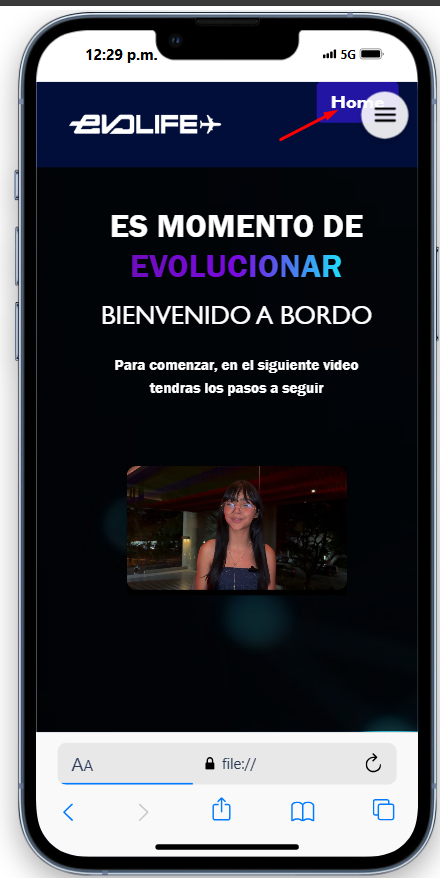
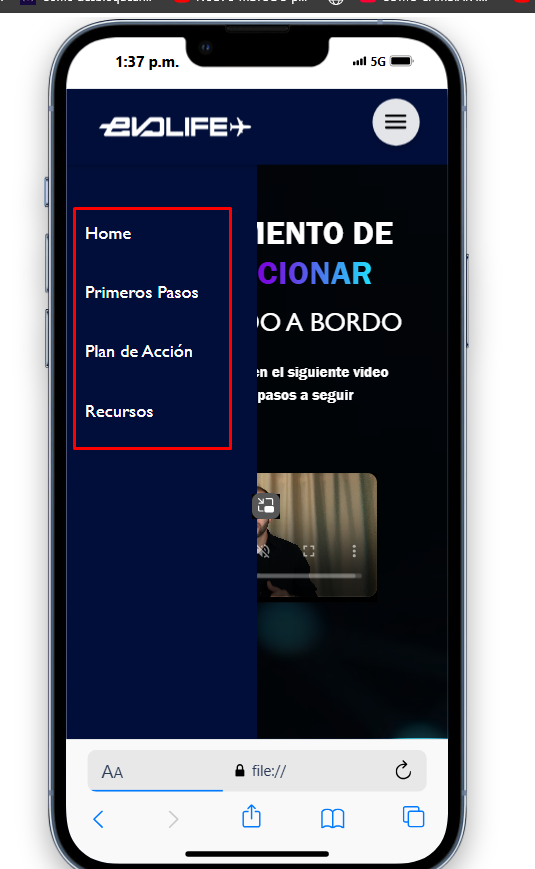
Haciendo cambias en el side bar

diff --git a/script/script.js b/script/script.js
@@ -1,4 +1,5 @@
 
+// Función para alternar el sidebar
 function toggleMobileSidebar() {
     const sidebar = document.getElementById('mobile-sidebar');
     sidebar.classList.toggle('active'); // Alterna la clase 'active'
@@ -16,6 +17,18 @@ document.getElementById('boton-carga').addEventListener('click', function () {
         overlay.classList.remove('activo'); // Oculta la animación (opcional)
         window.location.href = 'home.html'; // Cambia 'home.html' por la URL de tu página de inicio
     }, 5000);
+});
+
+// Resalta el enlace activo en el sidebar
+document.addEventListener('DOMContentLoaded', () => {
+    const links = document.querySelectorAll('.mobile-sidebar-menu a');
+    const currentUrl = window.location.pathname;
+
+    links.forEach(link => {
+        if (link.getAttribute('href') === currentUrl) {
+            link.classList.add('active'); // Agrega la clase 'active' al enlace correspondiente
+        }
+    });
 });
 
 

diff --git a/styles/sidebar.css b/styles/sidebar.css
@@ -1262,6 +1262,18 @@ video {
     font-family:'Gill Sans', 'Gill Sans MT', Calibri, 'Trebuchet MS', sans-serif;
 }
 
+.mobile-sidebar-menu a.active {
+    background-color: #3b1bf094; /* Relleno verde */
+    color: white; /* Color del texto */
+    padding: 5px 10px; /* Espaciado interno */
+    border-radius: 5px; /* Bordes redondeados */
+    transition: background-color 0.3s ease; /* Animación suave */
+}
+
+.mobile-sidebar-menu a.active:hover {
+    background-color: #3b1bf094; /* Un verde más oscuro al pasar el mouse */
+}
+
 /* Media Query para pantallas pequeñas */
 @media (max-width: 768px) {
     .hamburger-menu {

diff --git a/home.html b/home.html
@@ -38,7 +38,7 @@
 <!-- Sidebar para teléfonos -->
 <div class="mobile-sidebar" id="mobile-sidebar">
     <ul class="mobile-sidebar-menu">
-        <li><a href="home.html">Home</a></li>
+        <li><a href="home.html" class="active">Home</a></li>
         <li><a href="primeros-pasos.html">Primeros Pasos</a></li>
         <li><a href="plan-de-accion.html">Plan de Acción</a></li>
         <li><a href="recursos.html">Recursos</a></li>
